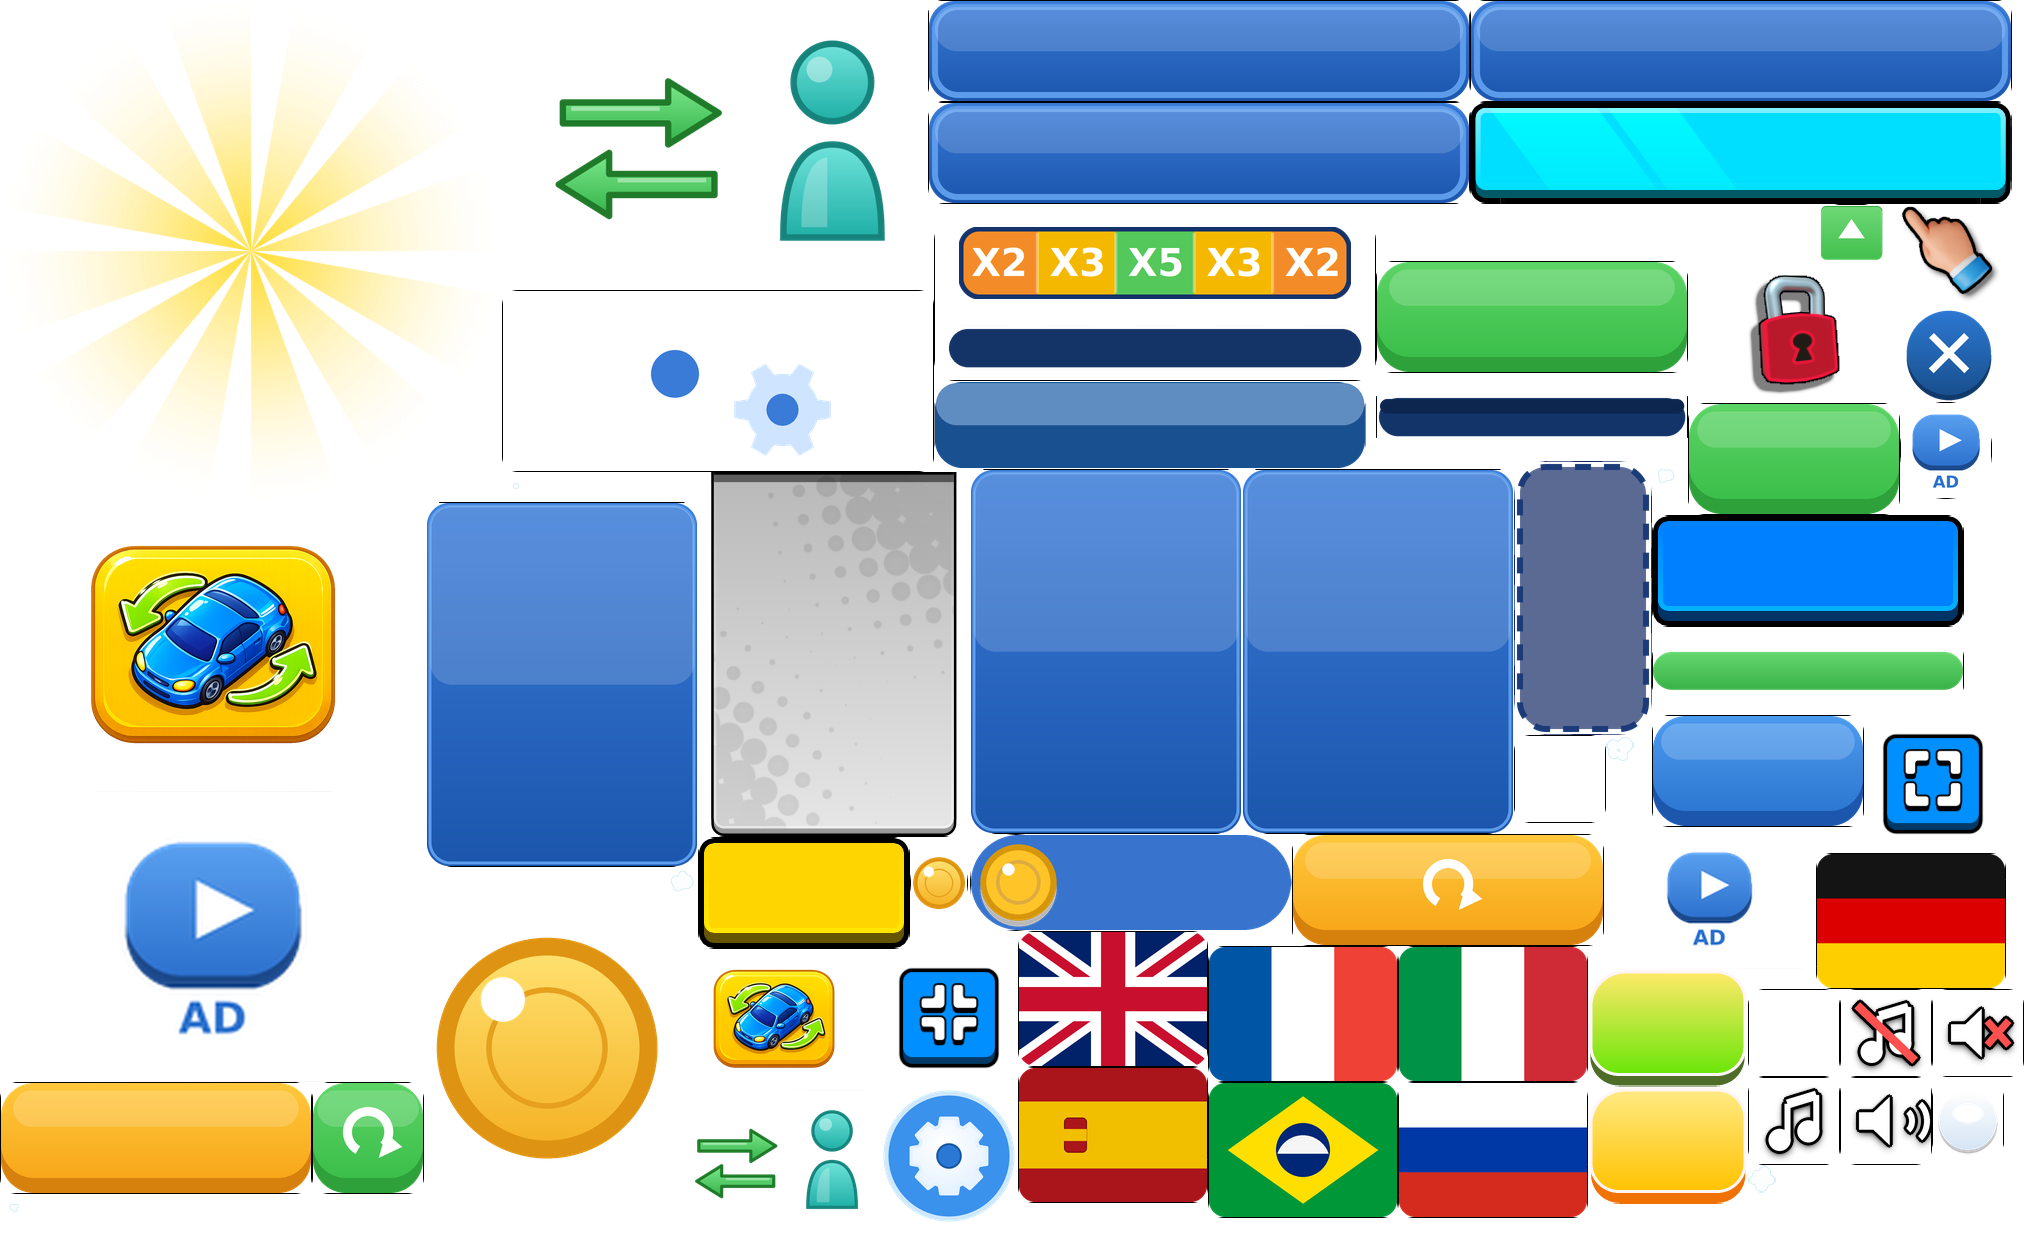
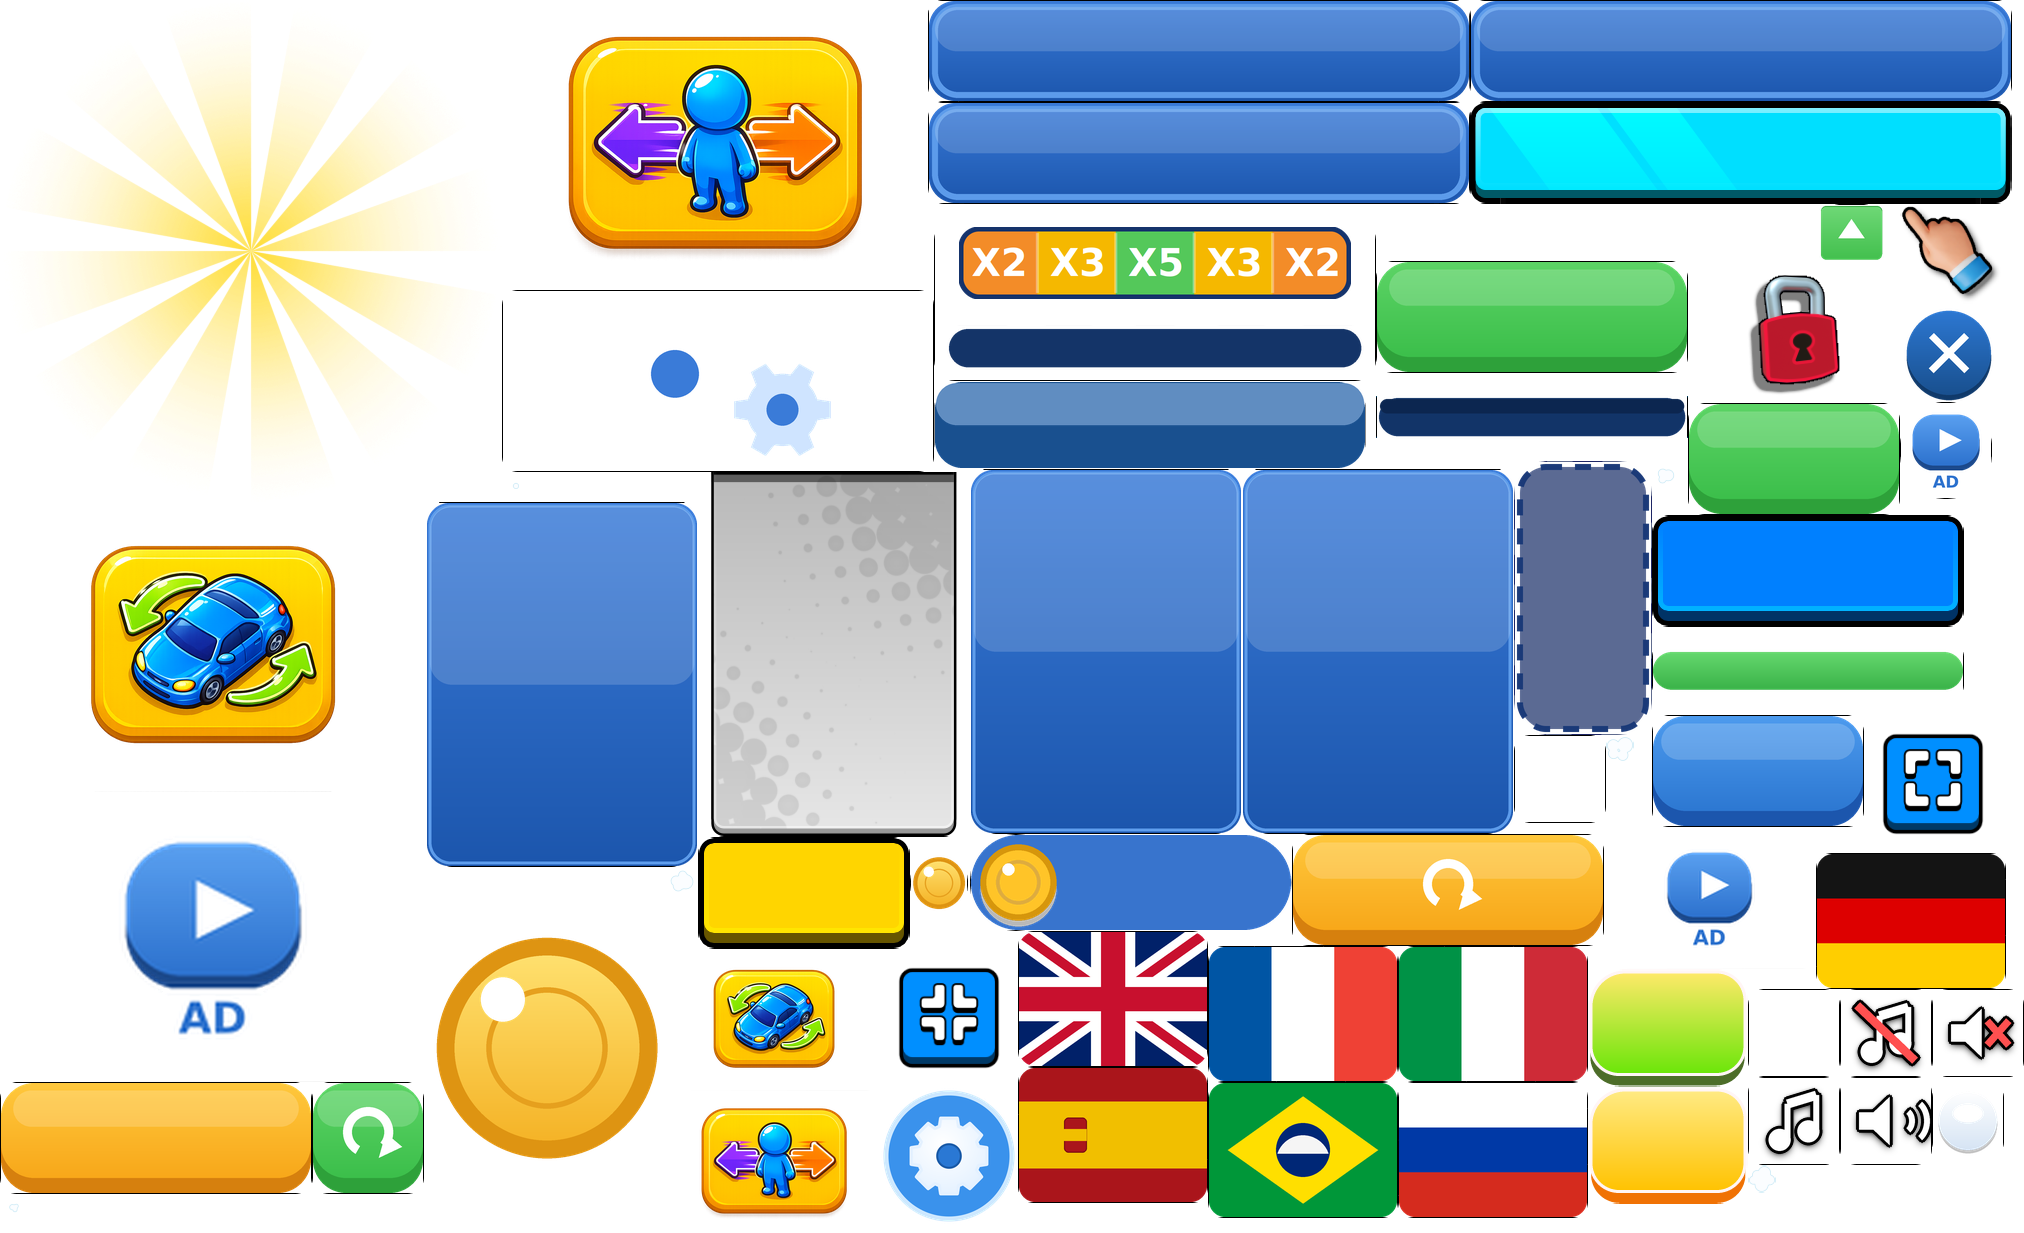
Add files via upload

Changed region(s): [[0.2801, 0.0308, 0.4358, 0.2157], [0.3424, 0.8938, 0.4358, 0.9862]]

diff --git a/js/game.js b/js/game.js
@@ -2281,8 +2281,8 @@ function ResetGuiButtonAppearance(a,b,e){a.widthInPixels=b;a.heightInPixels=e;a.
 ContainerAssetTask.prototype.runTask=function(a,b,e){var f=this;BABYLON.SceneLoader.LoadAssetContainer(this.rootUrl,this.sceneFilename,a,function(h){f.loadedContainer=h;f.loadedMeshes=h.meshes;f.loadedParticleSystems=h.particleSystems;f.loadedSkeletons=h.skeletons;f.loadedAnimationGroups=h.animationGroups;b()},null,function(h,m,k){e(m,k)})};BABYLON.AssetsManager.prototype.addContainerTask=function(a,b,e,f){a=new ContainerAssetTask(a,b,e,f);this._tasks.push(a);return a};
 var AssetLoader=function(a){AssetLoader.instance=this;this.create(a)};AssetLoader.instance=null;
 AssetLoader.prototype={create:function(a){this.callback={};this.assetsManager=new BABYLON.AssetsManager(a);this.assetsManager.useDefaultLoadingScreen=!1;this.assetsManager.autoHideLoadingUI=!1;this.assetsManager.addContainerTask=function(b,e,f,h){b=new ContainerAssetTask(b,e,f,h);this._tasks.push(b);return b};this.assetsManager.onProgress=function(b,e,f){onProgress(f.name,Math.round((e-b)/e*100))};this.loadedXMLs=[];this.loadedJSONs=[];this.loadedImages=[];this.loadedTextures=[];this.loadedContainers=
-[];this.loadedSounds=[]},prepareAssetsTasks:function(a){for(var b=0;b<a.length;b++){var e=a[b].type;"xml"==e&&(this.assetsManager.addTextFileTask(a[b].file,a[b].root+a[b].file).onSuccess=function(f){var h=new DOMParser;this.loadedXMLs[f.name]=h.parseFromString(f.text,"application/xml")}.bind(this));"json"==e&&(this.assetsManager.addTextFileTask(a[b].file,a[b].root+a[b].file+"?v=cidi74").onSuccess=function(f){this.loadedJSONs[f.name]=JSON.parse(f.text)}.bind(this));"texture"==e&&(this.assetsManager.addTextureTask(a[b].file,
-a[b].root+a[b].file+"?v=cidi74").onSuccess=function(f){this.loadedTextures[f.name]=f.texture}.bind(this));"image"==e&&(this.assetsManager.addImageTask(a[b].file,a[b].root+a[b].file+"?v=cidi74").onSuccess=function(f){this.loadedImages[f.name]=f.image}.bind(this));"model"==e&&(this.assetsManager.addContainerTask(a[b].file,"",a[b].root,a[b].file).onSuccess=function(f){f.loadedContainer.rootNodes[0].name=f.name;this.loadedContainers[f.name]=f.loadedContainer;this.loadedContainers[f.name.toLowerCase()]=f.loadedContainer;for(var h=
+[];this.loadedSounds=[]},prepareAssetsTasks:function(a){for(var b=0;b<a.length;b++){var e=a[b].type;"xml"==e&&(this.assetsManager.addTextFileTask(a[b].file,a[b].root+a[b].file).onSuccess=function(f){var h=new DOMParser;this.loadedXMLs[f.name]=h.parseFromString(f.text,"application/xml")}.bind(this));"json"==e&&(this.assetsManager.addTextFileTask(a[b].file,a[b].root+a[b].file+"?v=cidi76").onSuccess=function(f){this.loadedJSONs[f.name]=JSON.parse(f.text)}.bind(this));"texture"==e&&(this.assetsManager.addTextureTask(a[b].file,
+a[b].root+a[b].file+"?v=cidi76").onSuccess=function(f){this.loadedTextures[f.name]=f.texture}.bind(this));"image"==e&&(this.assetsManager.addImageTask(a[b].file,a[b].root+a[b].file+"?v=cidi76").onSuccess=function(f){this.loadedImages[f.name]=f.image}.bind(this));"model"==e&&(this.assetsManager.addContainerTask(a[b].file,"",a[b].root,a[b].file).onSuccess=function(f){f.loadedContainer.rootNodes[0].name=f.name;this.loadedContainers[f.name]=f.loadedContainer;this.loadedContainers[f.name.toLowerCase()]=f.loadedContainer;for(var h=
 0;h<this.loadedContainers[f.name].materials.length;h++)this.loadedContainers[f.name].materials[h].metallic=0,this.loadedContainers[f.name].materials[h].ambientColor=new BABYLON.Color3(.4,.4,.4),this.loadedContainers[f.name].materials[h].cullBackFaces=!0,this.loadedContainers[f.name].materials[h].freeze()}.bind(this));"audio"==e&&(this.assetsManager.addBinaryFileTask(a[b].file,a[b].root+a[b].file+"?v=cidi48").onSuccess=function(f){this.loadedSounds[f.name]=new BABYLON.Sound(f.name,f.data,activeScene.scene,function(){this.loadedSounds[f.name].stop()}.bind(this),
 {autoplay:!1})}.bind(this));"skybox"==e&&(e=null,a[b].hasOwnProperty("extensions")&&(e=a[b].extensions),this.assetsManager.addCubeTextureTask(a[b].file,a[b].root+a[b].file,e).onSuccess=function(f){}.bind(this))}},loadFonts:function(a){void 0===a&&(a=null);var b=document.createElement("style");b.innerHTML="\n@font-face {\n    font-family: 'gamefont';\n    src: url('assets/fnt/gamefont.ttf?v=cidi41') format('truetype');\n    font-weight: normal;\n    font-style: normal;\n}\n"+document.head.appendChild(b);b=
 document.createElement("div");b.innerHTML="<span style=\"font-family: 'gamefont', 'Arial Black', sans-serif, normal;\">PRELOAD</span>";document.body.appendChild(b);document.fonts.ready.then(function(){null!=a&&a()})},loadSplashAssets:function(a){this.callback=a;this.prepareAssetsTasks([{root:"assets/dat/",file:"m.isr",type:"xml"},{root:"assets/imgs/",file:"main_bg.jpg",type:"image"},{root:"assets/imgs/",file:"logo_big.png",type:"image"},{root:"assets/imgs/",file:"splash.jpg",type:"image"},{root:"assets/imgs/",
@@ -2420,7 +2420,7 @@ new BABYLON.GUI.Image("imgBottomMask");this.imgBottomMask.transformCenterX=.5;th
 this.pnlBoosters.leftInPixels=0;this.pnlBoosters.topInPixels=0;this.pnlBoosters.thickness=0;this.pnlBoosters.color="green";this.pnlBoosters.widthInPixels=750;this.pnlBoosters.heightInPixels=170;this.pnlBoosters.highlightLineWidth=0;this.pnlBoosters.clipChildren=!1;this.pnlBoosters.clipContent=!0;this.pnlBoosters.isVisible=!0;a.addControl(this.pnlBoosters);this.pnlBoosters.scaleTo=function(b){this.scaleX=this.scaleY=b};this.pnlBoosters.setPosition=function(b,e){this.leftInPixels=b*Resolution.SCALE/
 this.scaleX;this.topInPixels=e*Resolution.SCALE/this.scaleY};this.pnlBoosters.pnlSlots=[];this.pnlBoosters.itemWidth=1.5*this.pnlBoosters.heightInPixels;this.pnlBoosters.reset=function(){for(;0<this.pnlBoosters.pnlSlots.length;)this.pnlBoosters.pnlSlots[0].dispose(),this.pnlBoosters.pnlSlots.splice(0,1)};this.pnlBoosters.getBoosterByName=function(b){for(var e=0;e<this.pnlSlots.length;e++)if(this.pnlSlots[e].booster==b)return this.pnlSlots[e];return null};this.pnlBoosters.addBooster=function(b){var e=
 new BABYLON.GUI.Rectangle("pnlBooster");e.transformCenterX=.5;e.transformCenterY=.5;e.horizontalAlignment=BABYLON.GUI.Control.HORIZONTAL_ALIGNMENT_CENTER;e.verticalAlignment=BABYLON.GUI.Control.VERTICAL_ALIGNMENT_TOP;e.isPointerBlocker=!1;e.isHitTestVisible=!1;e.leftInPixels=0;e.topInPixels=0;e.thickness=0;e.color="yellow";e.widthInPixels=this.itemWidth;e.heightInPixels=this.itemWidth;e.highlightLineWidth=0;e.clipChildren=!1;e.clipContent=!1;e.isVisible=!0;e.booster=b;this.addControl(e);var f=new BABYLON.GUI.Image("imgBoosterBg");
-f.transformCenterX=.5;f.transformCenterY=.5;f.isPointerBlocker=!1;f.isHitTestVisible=!1;f.leftInPixels=0;f.topInPixels=0;f.horizontalAlignment=BABYLON.GUI.Control.HORIZONTAL_ALIGNMENT_CENTER;f.verticalAlignment=BABYLON.GUI.Control.VERTICAL_ALIGNMENT_CENTER;SetImageFromSpritesheet(f,getAssetImage("pak1"),getAssetImageFrames("pak1"),"button_top_blue.png");e.addControl(f);f.isVisible=("shuffle"!=b);f=BABYLON.GUI.Button.CreateImageOnlyButton("imgBoosterBtn");f.horizontalAlignment=BABYLON.GUI.Control.HORIZONTAL_ALIGNMENT_CENTER;
+f.transformCenterX=.5;f.transformCenterY=.5;f.isPointerBlocker=!1;f.isHitTestVisible=!1;f.leftInPixels=0;f.topInPixels=0;f.horizontalAlignment=BABYLON.GUI.Control.HORIZONTAL_ALIGNMENT_CENTER;f.verticalAlignment=BABYLON.GUI.Control.VERTICAL_ALIGNMENT_CENTER;SetImageFromSpritesheet(f,getAssetImage("pak1"),getAssetImageFrames("pak1"),"button_top_blue.png");e.addControl(f);f.isVisible=("shuffle"!=b&&"sort"!=b);f=BABYLON.GUI.Button.CreateImageOnlyButton("imgBoosterBtn");f.horizontalAlignment=BABYLON.GUI.Control.HORIZONTAL_ALIGNMENT_CENTER;
 f.verticalAlignment=BABYLON.GUI.Control.VERTICAL_ALIGNMENT_CENTER;f.booster=b;f.topInPixels=-15;e.addControl(f);SetImageFromSpritesheet(f.children[0],getAssetImage("pak1"),getAssetImageFrames("pak1"),"icon_"+b+"_btn.png");ResetGuiButtonAppearance(f,f.children[0].sourceWidth,f.children[0].sourceHeight);e.imgBoosterBtn=f;f.onPointerClickObservable.add(ScreenGame.instance.onBoosterPressed.bind(ScreenGame.instance));this.pnlSlots.push(e);this.arrangeSlots()};this.pnlBoosters.arrangeSlots=function(b,e){b=
 (-(this.pnlSlots.length*this.itemWidth)+this.itemWidth)/2;this.widthInPixels=750;this.heightInPixels=140;for(e=0;e<this.pnlSlots.length;e++)this.pnlSlots[e].leftInPixels=b,this.pnlSlots[e].topInPixels=.2*-this.itemWidth,b+=this.itemWidth};this.pnlBoosters.addBooster("shuffle");this.pnlBoosters.addBooster("sort");return this.pnlBoosters},onBoosterPressed:function(a,b){Buttons.enabled&&(a=b.currentTarget.booster,this._canBoosterBeRun(a,b.currentTarget)?this.purchaseBooster(a):(ScreenGame.instance.negativeShakeAnimation(b.currentTarget,
 DURATION_BOOSTER_SHAKE),soundManager.playSound("negative_buy"),"sort"==a&&(b=this.pnlBoosters.getBoosterByName(a).transformedMeasure,screenParticles.textParticles.CreateTextParticle1(0,b.top-engineRenderHeight/2,STR("NO_CAR_TO_SORT"),45,"#FFFFFF",1))))},purchaseBooster:function(a){activeScene.gamePaused=!0;screenGame.disableControls();if(window.__bjShowBoosterModal&&(a=="shuffle"||a=="sort")){window.__bjShowBoosterModal(a,BoosterPrices[a],STR(a.toUpperCase()),STR(a.toUpperCase()+"_DESC"),STR("FREE"),STR("WATCH_AD"));return}screenPurchaseBooster.setBooster(a);screenPurchaseBooster.setPrice(BoosterPrices[a]);screenPurchaseBooster.showScene()},purchaseSpot:function(a){null!=a.icon&&a.icon.isVisible&&

diff --git a/index.html b/index.html
@@ -481,7 +481,7 @@
 
 
     <script src="https://app.cidi.games/sdk/cidi-sdk.js"></script>
-    <script src="js/game.js?v=cidi75"></script>
+    <script src="js/game.js?v=cidi76"></script>
         
 
 